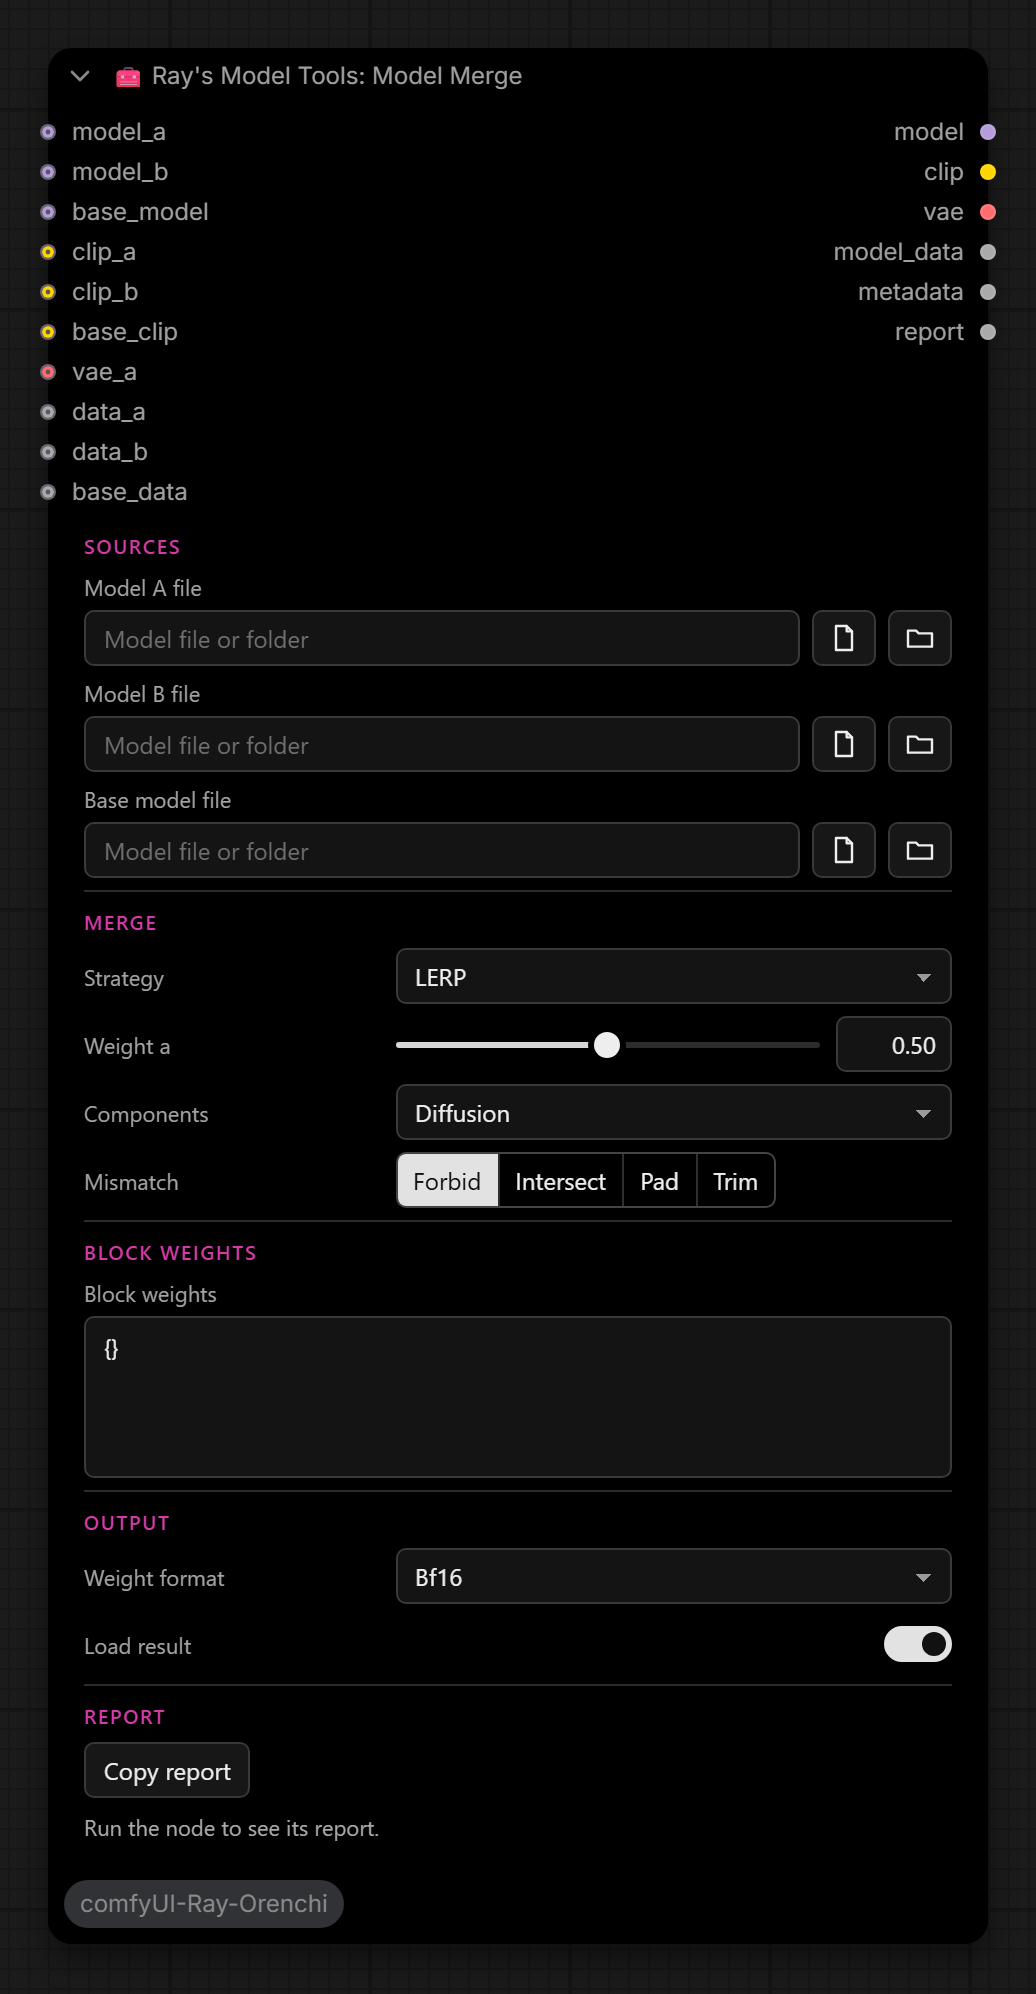
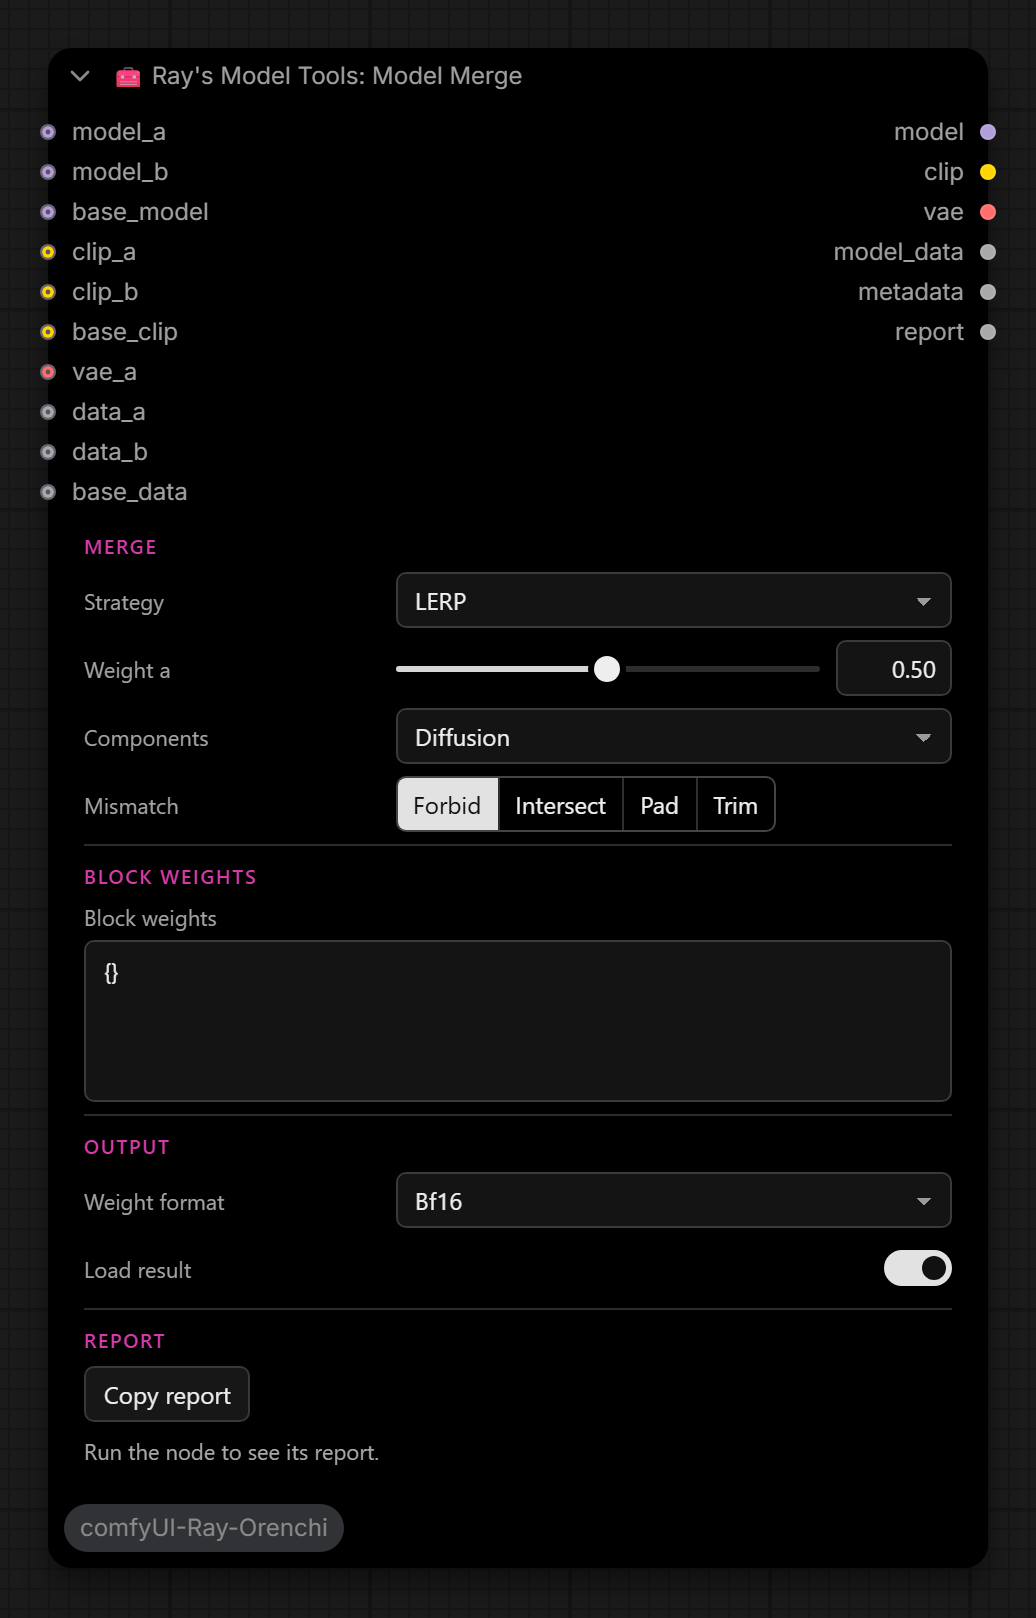
Use connections for model merge sources

diff --git a/web/ray_model_tools.js b/web/ray_model_tools.js
@@ -213,7 +213,6 @@ const SECTIONS = {
         ["Source model", "source_model_path"], ["Metadata", "metadata_json"],
     ],
     RayModelMerge: [
-        ["Sources", "path_a", "path_b", "base_path"],
         ["Merge", "strategy", "weight_a", "components", "mismatch"],
         ["Algorithm", "density", "lambda", "top_trim", "bottom_trim", "seed"],
         ["Block weights", "block_weights"], ["Output", "weight_format", "load_result"],
@@ -257,7 +256,8 @@ export function installModelTools(node, id) {
     if (id === "RayModelLoadAs") normalizeLoadSource(node);
     if (node._rayModelTools) return;
     node._rayModelTools = true; styles(); applyBucketTint(node, "Tools");
-    const hidden = id === "RayModelMetadata" ? ["editor_json", "editor_source"] : [];
+    const hidden = id === "RayModelMetadata" ? ["editor_json", "editor_source"]
+        : id === "RayModelMerge" ? ["path_a", "path_b", "base_path"] : [];
     for (const name of hidden) if (widget(node, name)) setWidgetHidden(node, widget(node, name), true);
     const native = (node.widgets || []).filter(w => w.type !== "button" && w.name !== "control_after_generate" && !hidden.includes(w.name));
     const fields = native.map(w => {

diff --git a/ray_model_tools.py b/ray_model_tools.py
@@ -325,7 +325,7 @@ class RayModelMetadataSave:
 
 
 class RayModelMerge:
-    DESCRIPTION = "Merge compatible models with Ray's nine strategies. Task-vector strategies require an explicit base. Intersect merges common keys and passes through the union. MODEL inputs take priority over paths."
+    DESCRIPTION = "Merge compatible models connected to model_a/model_b or data_a/data_b with Ray's nine strategies. Task-vector strategies require a base_model or base_data connection. Intersect merges common keys and passes through the union."
     CATEGORY, FUNCTION = CATEGORY, "merge"
     RETURN_TYPES = ("MODEL", "CLIP", "VAE", "RAY_MODEL_DATA", "RAY_MODEL_METADATA", "STRING")
     RETURN_NAMES = ("model", "clip", "vae", "model_data", "metadata", "report")
@@ -351,10 +351,15 @@ class RayModelMerge:
               seed=0, density=.5, top_trim=.1, bottom_trim=.01, load_result=True,
               model_a=None, model_b=None, base_model=None, clip_a=None, clip_b=None, base_clip=None, vae_a=None,
               data_a=None, data_b=None, base_data=None, path_a="", path_b="", base_path="", block_weights="{}", **kwargs):
+        if model_a is None and data_a is None and not path_a.strip():
+            raise ValueError("Connect Model A to model_a or data_a.")
+        if model_b is None and data_b is None and not path_b.strip():
+            raise ValueError("Connect Model B to model_b or data_b.")
         with ExitStack() as stack:
             a = stack.enter_context(source_path(model_a, data_a, path_a, clip_a, vae_a))
             b = stack.enter_context(source_path(model_b, data_b, path_b, clip_b))
-            base = stack.enter_context(source_path(base_model, base_data, base_path, base_clip)) if (base_model or base_data or base_path.strip()) else None
+            needs_base = strategy not in ("LERP", "SLERP")
+            base = stack.enter_context(source_path(base_model, base_data, base_path, base_clip)) if needs_base and (base_model or base_data or base_path.strip()) else None
             asset, check = core.merge_models(a, b, cache_path("merged"), strategy, weight_a, base, weight_format,
                 components, mismatch, seed, density, kwargs.get("lambda", 1.), top_trim, bottom_trim,
                 block_weights, progress())

diff --git a/NODES.md b/NODES.md
@@ -759,7 +759,7 @@ connect Save Image or another output node when you want to save them.
 
 ![🧰 Ray's Model Tools: Model Merge](screenshots/RayModelMerge.png)
 
-**Purpose.** Merge compatible model sources with LERP, SLERP, TIES, DARE, DELLA, or Breadcrumbs variants. Includes component selection, seeded controls, block weights, and optional loading of the result.
+**Purpose.** Merge compatible models connected to A, B and any required base, using MODEL or model-data inputs. Supports LERP, SLERP, TIES, DARE, DELLA, or Breadcrumbs variants, component selection, seeded controls, block weights, and optional loading of the result.
 
 **Category:** `👑 Ray/🧰 Model Tools`. See [the Model Tools guide](MODEL_TOOLS.md) for supported formats, connections, controls, and examples.
 

diff --git a/MODEL_TOOLS.md b/MODEL_TOOLS.md
@@ -93,6 +93,10 @@ overwritten unless the node's overwrite option is enabled.
 
 ## Merging and extraction
 
+Connect Model Merge's **model_a** and **model_b**, or use **data_a** and
+**data_b** for file handles. Connect **base_model** or **base_data** when the
+chosen strategy needs a base. Choose source files in the upstream loader nodes.
+
 Weight A=1 selects A for LERP/SLERP; Weight A=0 selects B. Task-vector methods
 require an explicit compatible base. DARE/DELLA use a per-tensor seed derived
 from the supplied seed and tensor name. The density/lambda/trim controls appear
